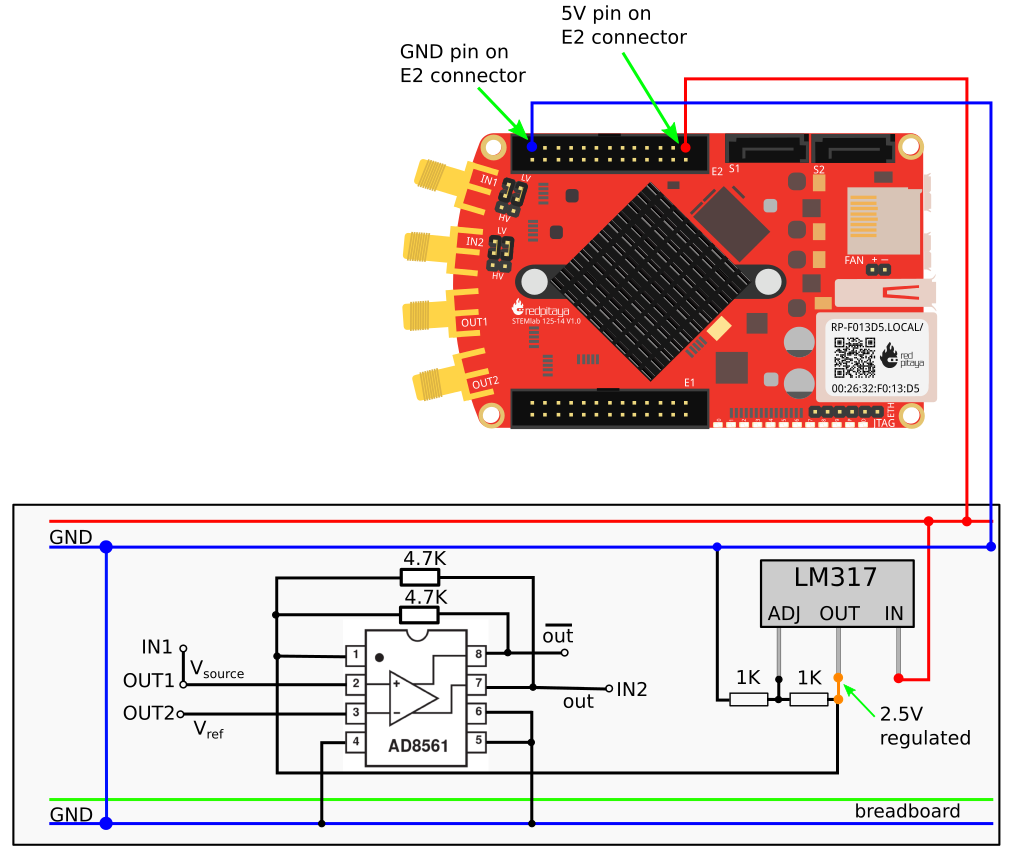
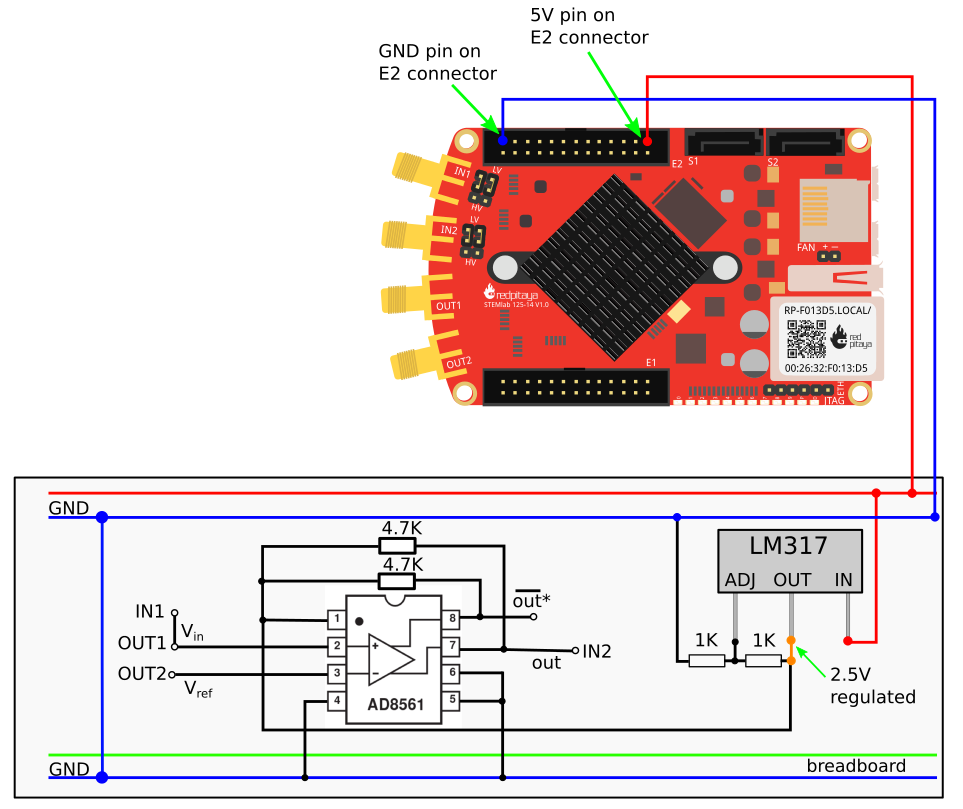
Finishing activity 18. Voltage comparator.

Changed region(s): [[0.0, 0.0, 0.9969, 1.0]]

diff --git a/activelearning/source/Activity18_TheComparatorSchmittTrigger.rst b/activelearning/source/Activity18_TheComparatorSchmittTrigger.rst
@@ -22,7 +22,7 @@ _____
 
 
 In this tutorials we use the terminology taken from the user manual when referring to the connections to the Red Pitaya STEMlab board hardware_.
-Extension connector pins used for **-3.3V** and **+3.3V** voltage supply are show in the documentation here_. 
+Extension connector pins used for **5V** voltage supply are show in the documentation here_. 
 Oscilloscope_ & Signal_ generator_ application is used for generating and observing signals on the circuit.
 
 Background
@@ -38,7 +38,7 @@ A Differential Voltage Comparator such as the AD8561_ from the analog parts kit 
 Figure 1: AD8561_  datasheet and pin assignments 
 
 Materials
-----------
+__________
 
 - Red Pitaya STEMlab 
 - OPAMP:     1x AD8561_  voltage comparator
@@ -50,7 +50,7 @@ Materials
 - Capacitor: 1x 0.1 :math:`\mu F`
 
 Directions
------------
+___________
 
 Construct the comparator test circuit as shown in figure 2 on your solder-less breadboard. The two 4.7 kΩ pull-up resistors are optional and are used to increase the peak positive output swing to closer to the +5 V supply. 
 
@@ -72,11 +72,11 @@ Figure 3: AD8561_  comparator circuit on the breadboard
 LM317_ Voltage regulator is described in previous_ section.
 
 Procedure
-----------
+__________
 
-1. Set Oscilloscope probes attenuation; IN1 to x1 and IN2 to x1
+1. Set Oscilloscope probes attenuation; IN1 to x1 and IN2 to x10
 2. Start the Oscilloscope & Signal Generator application.
-3. To apply input voltage :math:`V_{source}` in the OUT1 settings menu set Amplitude value to 0.5V and DC offset to 0.5V. From the waveform menu select TRIANGLE, 
+3. To apply input voltage :math:`V_{in}` in the OUT1 settings menu set Amplitude value to 0.5V and DC offset to 0.5V. From the waveform menu select TRIANGLE, 
    deselect SHOW button and select enable.
 4. In the OUT2 settings menu set Amplitude value to 0.5V, from the waveform menu select DC and select enable.
 5. In the IN2 settings menu set probe attenuation to x10 
@@ -90,3 +90,121 @@ Procedure
 
 Figure 4: AD8561_  comparator circuit measurements
 
+You should see a square wave that is high ( near +2.5 V ) when the input signal level is a greater than 0.5 V (OUT2 DC value) and low ( near 0 V ) when the input signal is less than 0.5 V. Note the levels of the input triangle wave where the output changes from low to high and from high to low. 
+
+Now connect Channel IN1 (set probe attenuation x10 and IN1 settings menu set probe attenuation to x10) to the inverting output ( pin 8 ). You should again see a square wave but with opposite phase to pin 7(IN2). Also change DC level of OUT2 (set amplitude to 0.7V) - this will change switching level of the voltage comparator causing different times duration of HIGH and LOW states of the comparator output. You should again see two square waves with opposite phases but now with opposite HIGH and LOW time durations. 
+
+1. Set Oscilloscope probes attenuation; IN1 to x10 and IN2 to x10
+2. In the OUT2 settings menu set Amplitude value to 0.7V, from the waveform menu select DC and select enable.
+3. In the IN2 and IN2 settings menu set probe attenuation to x10  and offset level -1700mV
+
+.. note:: 
+     From description above you can maybe see how to make an PWM (pulse width modulation) signal using constant frequency triangle signal and changeable DC :math:`V_{ref}` value.
+
+
+.. image:: img/Activity_18_Figure_5.png
+
+Figure 5: AD8561_  both output measurements at different :math:`V_{ref}=0.7V` 
+
+Zoom into the falling edge of the output (IN2) square wave by adjusting the Horizontal position and time per division settings such that the falling edge is centered on the time axis and the time per div is small enough to see the transition time of the edge (5 uS/div). You should see that the output does not go from the high output level all the way to the low output level all at once but stops part way and spends some time at an intermediate level before continuing the rest of the way to the low output level. You should should also see this delay when transitioning from low to high (IN1).
+This delay is caused by noise as the input signal slowly passes through the input threshold level ( 0.7 Volts in this case ) and can cause problems. This is the reason why it is good to have low noise power supply and low noise input signals on voltage comparator. 
+Try to repeat switching noise measurement at more noisy power supply (5V pin directly form STEMlab board)
+
+.. image:: img/Activity_18_Figure_6.png
+
+Figure 6: Switching noise measurements.
+
+.. note:: 
+     Usually our intuition is to correlate high possibility of noise issues with high frequency signals. In case of voltage comparator this is not always true.
+     If we increase OUT1 (:math:`V_{in}`) frequency to 100kHz the switching noise will be much lower. Way is that? You may think like this: Voltage comparator has very sensitive inputs and it is constantly comparing values of :math:`V_{in}` and :math:`V_{ref}`. Now let's set :math:`V_{in}` to be noiseless signal and :math:`V_{ref} = DC +(-) A_{noise}`. When triangle wave :math:`V_{in}` signal is slowly approaching :math:`V_{ref}` the voltage comparator will start switching and if the :math:`V_{ref}` amplitude swingings around DC value by :math:`A_{noise}` the comparator 
+     output will change states according to the :math:`V_{in}  - (V_{ref} = DC +(-) A_{noise})` ratio. So, as long :math:`V_{in}` amplitude **stays in the range** of :math:`V_{ref} = DC +(-) A_{noise}` value the comparator output will effectively switch on :math:`A_{noise}` and not on the input signals. Once :math:`V_{in}` goes below :math:`V_{ref} = DC - A_{noise}` or above :math:`V_{ref} = DC + A_{noise}` the comparator output will switch high or low but now on input signal values not on noise values. You can see that **low frequency triangle wave** :math:`V_{in}` amplitude **will spend more time** near :math:`V_{ref} = DC +(-) A_{noise}` causing voltage comparator to produce noisy output while **high frequency triangle wave** :math:`V_{in}` amplitude will **quickly pass by** :math:`V_{ref} = DC +(-) A_{noise}` range preventing voltage comparator to produce any noise switching. 
+
+
+.. image:: img/Activity_18_Figure_7.png
+
+Figure 7: Switching event at high input signal frequency (100kHz)
+
+Using positive feedback to add hysteresis: the Schmitt trigger
+_______________________________________________________________
+
+**Along side low noise power supply  a common solution to the problem just outlined is to add noise immunity to the comparator circuit by incorporating hysteresis into the transition threshold voltage** :math:`V_{th}`, as shown in figure 8.
+By “hysteresis” we mean that the threshold voltage is a function of the system’s current operating state, which is defined for this circuit by its output voltage: positive or negative saturation. Because :math:`V_{th}`, the voltage at pin 2, is determined by the voltage divider constructed from resistors R1 and R2, it changes in response to a change in the output voltage: once the output has gone high in response to an input which has passed below the threshold voltage, the threshold voltage is changed to a higher value :math:`V_{th+}` ( :math:`V_{ref}`  + a fraction of the output high voltage ); conversely, an input voltage climbing through :math:`V_{th+}` will change the output to its low state and cause the threshold voltage to be set to a lower value :math:`V_{th-}` ( :math:`V_{ref}` - a fraction of the output low voltage). 
+
+
+.. image:: img/Activity_18_Figure_8.png
+
+Figure 8: Schmitt trigger 
+
+This difference between :math:`V_{th+}`  and :math:`V_{th-}`  means that once a transition is triggered by a change in :math:`V_{in}`, noise excursions smaller than this difference on the input will not cause :math:`V_{in}` to cross the hysteresis gap :math:`V_{hist} = V_{th+} - V_{th-}` and cause an undesired reversal of the output state. If the hysteresis gap is made large enough, then the system can be made completely impervious to the noise on the input signal, eliminating the spurious output levels suffered by the basic comparator circuit (figure 1). 
+
+Calculating the threshold
+--------------------------
+
+Let’s call the maximum and minimum output voltages :math:`V_{high}`  and :math:`V_{low}`. The threshold voltage when the output is at :math:`V_{high}` and  at :math:`V_{low}` is: 
+
+
+
+The resulting hysteresis gap for the circuit of figure 8 is given by: 
+
+.. math:: 
+
+     V_{th_{high}} = \frac{R_1}{R_1+R_2} (V_{high}+V_{ref})+V_{ref}  \quad (1) 
+
+     .
+
+     V_{th_{low}} = \frac{R_1}{R_1+R_2} (V_{low}-V_{ref})+V_{ref}  \quad (2) 
+
+
+The resulting hysteresis gap for the circuit of figure 8 is given by: 
+
+.. math:: 
+ 
+     V_{hist} = V_{th_{high}}-V_{th_{low}} = \frac{R_1}{R_1+R_2} (V_{high}-V_{low}) \quad (3) 
+
+
+For the AD8561 with a +2.5 V power supply and pull-up resistor, :math:`V_{high} - V_{low} \approx 2.3 V`. Because the other end of the voltage divider (bottom of R1) is connected to :math:`V_{ref} = 0.5 V`, the threshold voltages :math:`V_{th_{high}}` and :math:`V_{th_{low}}` will be centered around 0.5V (:math:`V_{ref}`) assuming that  :math:`V_{high}` and  :math:`V_{low}` are more or less centered around 0.5 V). Connecting the bottom of R1 to a different voltage reference source rather than to mid supply will not affect the hysteresis gap, but it will center that gap around a threshold proportional to the new reference voltage. In fact the negative input pin of the comparator could be connected to the fixed reference voltage and the end of R1 considered as the input. This in effect reverses or inverts the sense of the two outputs. Above stated can be represented in Schmitt Hysteresis plot shown on figure 9. 
+
+
+.. image:: img/Activity_18_Figure_9.png
+
+Figure 9: Schmitt Hysteresis  
+
+.. note::  
+    Hysteresis gap equation places a potential restriction on the ratio R1/R2 for a Schmitt trigger: unless R1 < R2, the hysteresis gap will be larger than one half of the peak to peak output voltage swing range of the comparator and depending on the reference voltage value, one or the other of the Schmitt trigger thresholds might be beyond the range of the output voltage. Assuming the input signal voltage range is also limited to the output swing range ( in other word the power supply rails ) then the circuit’s output could lock-up and no longer respond to any changes in the input rendering the circuit useless. 
+
+
+Procedure
+__________
+
+
+Add the two positive feedback resistors to your circuit as shown in figure 8. Use values for R2 = 100 KΩ and  R1 equal to 10 KΩ. Using IN2, again observe the output square wave but note the level of the input triangle wave when the output changes level from low to high and high to low. Explain your results. Try a value for R2 less than R1. Does the circuit still work?
+
+1. Set Oscilloscope probes attenuation; IN1 to x1 and IN2 to x10
+2. Start the Oscilloscope & Signal Generator application.
+3. To apply input voltage :math:`V_{in}` in the OUT1 settings menu set Amplitude value to 0.5V and DC offset to 0.5V. From the waveform menu select TRIANGLE, 
+   deselect SHOW button and select enable.
+4. In the OUT2 settings menu set Amplitude value to 0.5V, from the waveform menu select DC, deselect  SHOW and select enable.
+5. On the left bottom of the screen be sure that  IN1 V/div is set to 200mV/div (You can set V/div by selecting the desired channel and using vertical +/- controls) 
+6. On the left bottom of the screen be sure that  IN2 V/div is set to 500mV/div (You can set V/div by selecting the desired channel and using vertical +/- controls) 
+7. In the IN1 settings menu set probe attenuation to x1 and offset level to -500mV
+8. In the IN2 settings menu set probe attenuation to x10 and offset level to -1000mV 
+9. In the TRIGGER settings menu select source IN2, select positive edge and set trigger level to 2V
+10. Set t/div value to 200us/div (You can set t/div using horizontal +/- controls)
+
+
+.. image:: img/Activity_18_Figure_10.png
+
+Figure 10: Schmitt Hysteresis and output signal 
+
+Compare results from figure 10 and figure 4. Look at the levels of IN1 when IN2 goes high and low.
+
+To see if the delay caused by the input noise has changed, again zoom into the falling and rising edges of the output square wave by adjusting the Horizontal position and time per division setting. Does the output pause at the same intermediate level as it transitions or does it no longer have this delay?
+
+1. In the TRIGGER settings menu select source IN2, select positive edge, NORMAL and set trigger level to 2V
+2. Set t/div value to 5us/div (You can set t/div using horizontal +/- controls)
+
+.. image:: img/Activity_18_Figure_11.png
+
+Figure 11: Switching noise with hysteresis
+
+As you can see from figure 11 when using hysteresis switching noise is not present at all. Compare figure 6 and figure 11.
